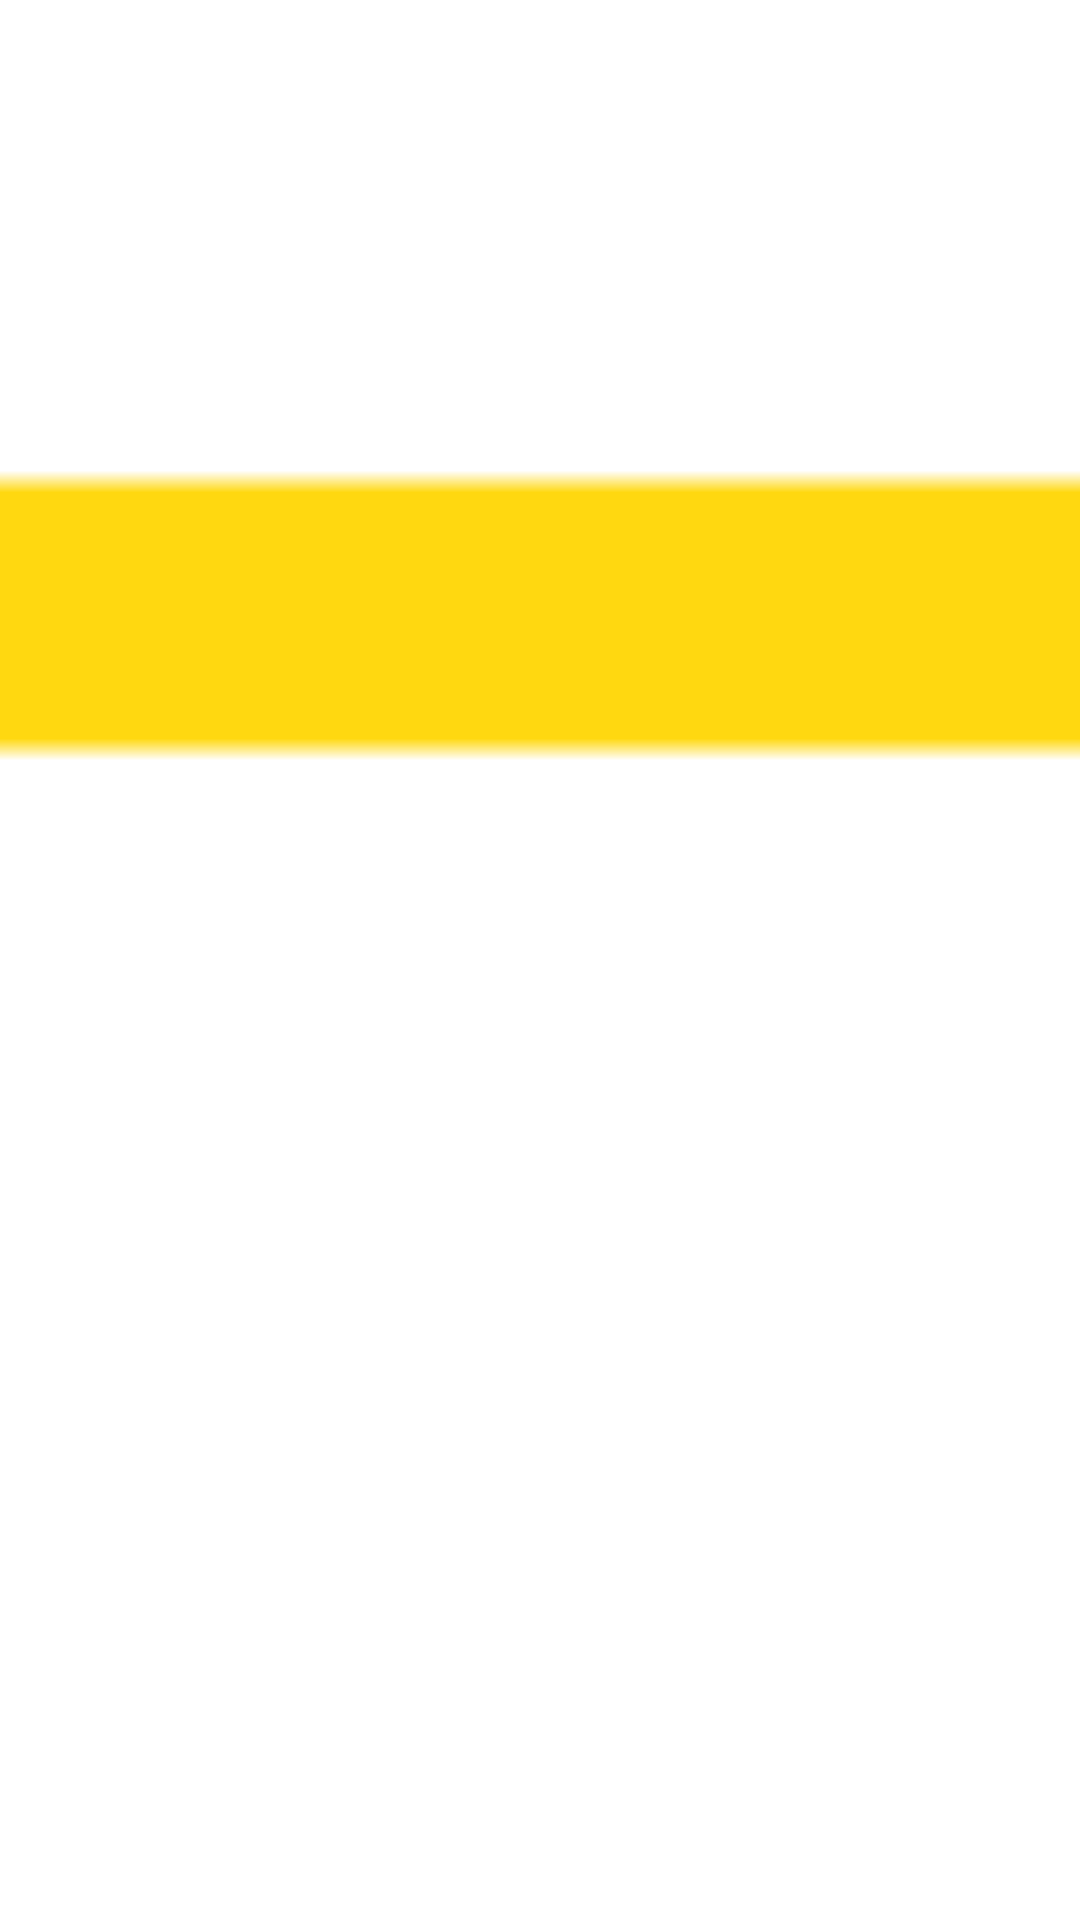
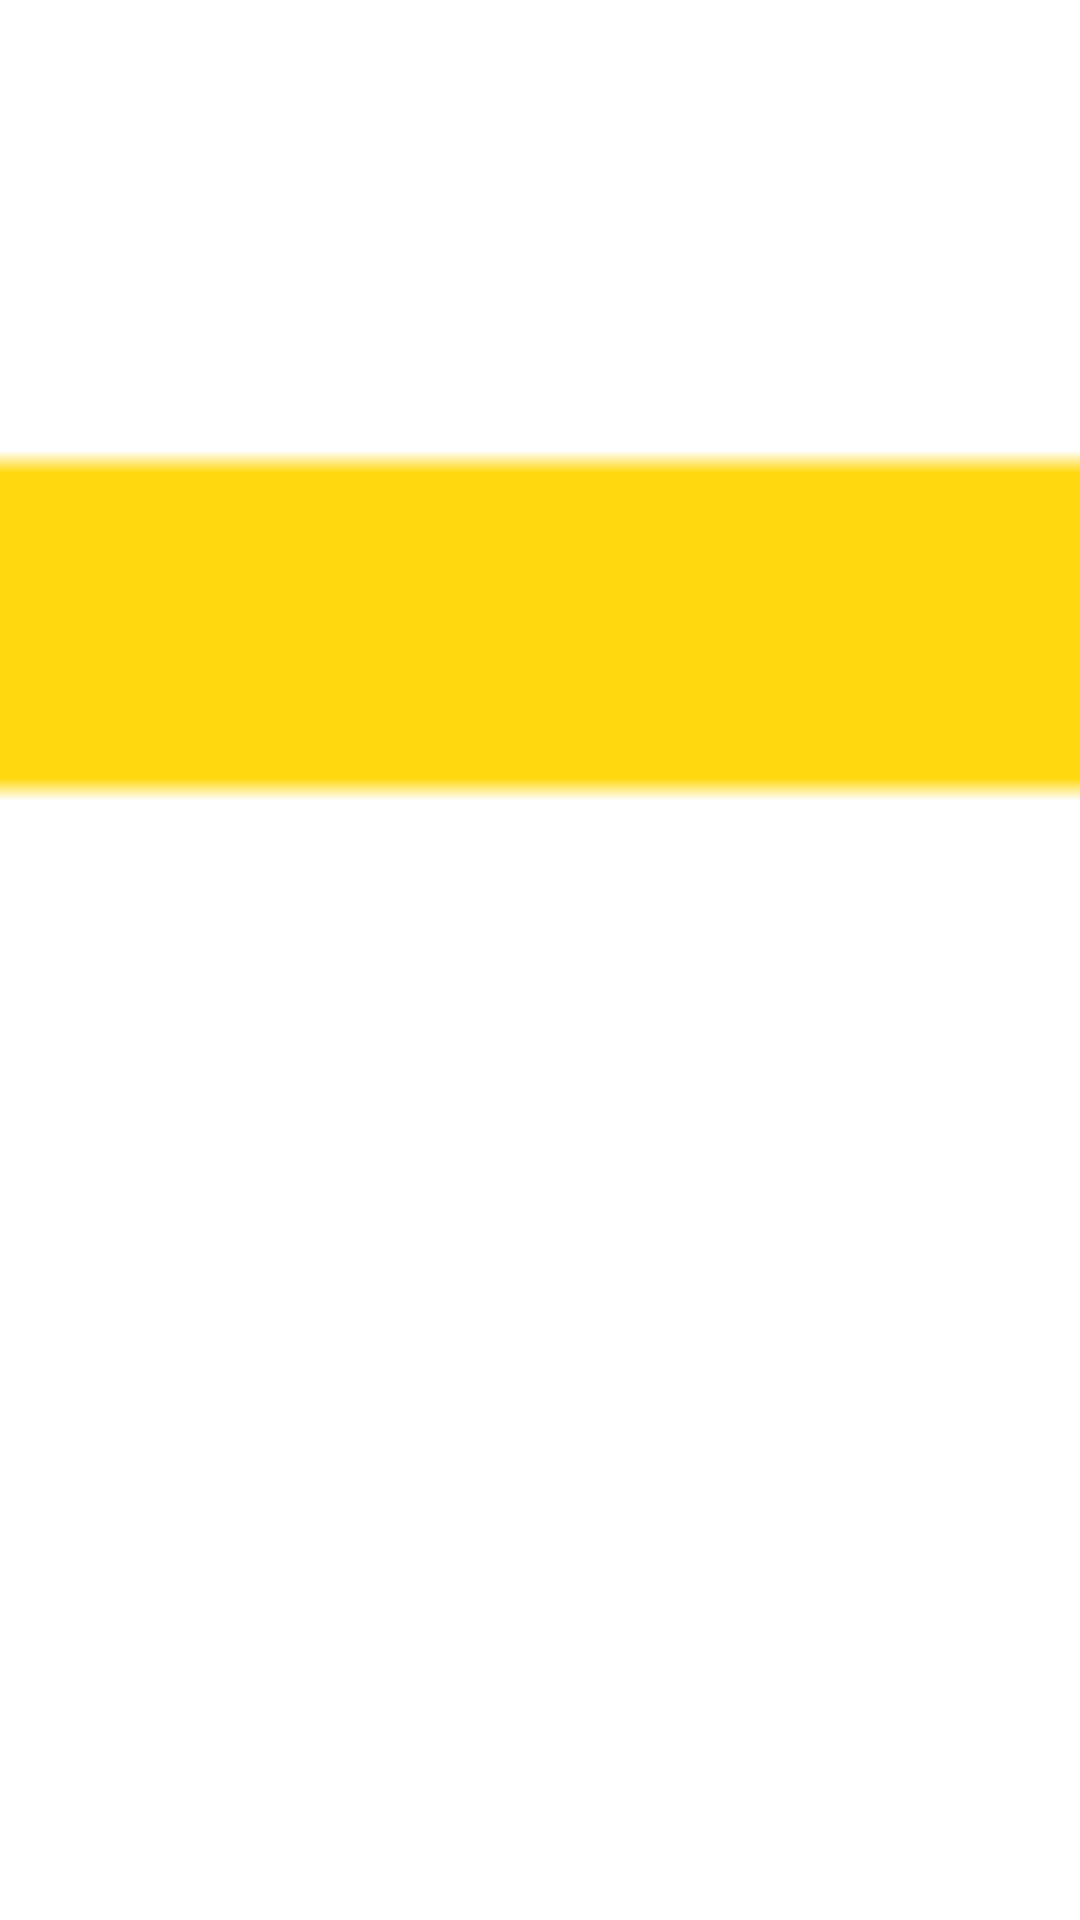
reels60 v8: 제목 전체 동일 크기(서브 별도 줄, 밴드 450~800 중앙정렬) + 배경 3클립 랜덤 조합(테마1+랜덤2, trim→concat)
Claude-Session: https://claude.ai/code/session_01CXgBneYGSEYp2fPMg731US

Changed region(s): [[0.0, 0.375, 1.0, 0.4375], [0.0, 0.2188, 1.0, 0.2812]]

diff --git a/api/reels60-cron.js b/api/reels60-cron.js
@@ -172,15 +172,18 @@ function hlWrap(text, maxLen, base, big) {
 }
 
 function buildAss(segs, titleMain, titleSub, totalDur) {
-  // 제목(노란 음영 밴드 y470~760 위, 진네이비 글씨) — 글자수 기반 자동 축소, 24자 초과 시 2줄
-  let tm = assEsc(titleMain), ts = assEsc(titleSub || '');
-  let fsMain = Math.min(104, Math.max(70, Math.floor(1900 / Math.max(1, tm.length))));
-  if (tm.length > 24) { tm = wrapAss(tm, Math.ceil(tm.length / 2) + 2); fsMain = 78; }
-  const fsSub = Math.min(54, Math.max(38, Math.floor(1500 / Math.max(1, ts.length || 1))));
+  // 제목(노란 음영 밴드 y450~800) — 메인·서브 전부 동일 크기(사용자 지시), 서브는 항상 별도 줄, 밴드 중앙 정렬
+  const mainW = wrapAss(assEsc(titleMain), 12);
+  const subW = titleSub ? wrapAss(assEsc(titleSub), 12) : '';
+  const wrapped = subW ? mainW + '\\N' + subW : mainW;
+  const tLines = wrapped.split('\\N');
+  const maxLen = Math.max(...tLines.map(l => l.replace(/\{[^}]*\}/g, '').length), 1);
+  const n = tLines.length;
+  const fs = Math.max(48, Math.min(88, Math.floor(1040 / maxLen), Math.floor(310 / (n * 1.22))));
+  const topMargin = Math.max(462, Math.round(625 - (n * fs * 1.22) / 2));
 
   let ev = '';
-  ev += `Dialogue: 2,${assTime(0)},${assTime(totalDur)},TMain,,0,0,0,,{\\fs${fsMain}}${tm}\n`;
-  if (ts) ev += `Dialogue: 2,${assTime(0)},${assTime(totalDur)},TSub,,0,0,0,,{\\fs${fsSub}}${ts}\n`;
+  ev += `Dialogue: 2,${assTime(0)},${assTime(totalDur)},TMain,,0,0,${topMargin},,{\\fs${fs}}${wrapped}\n`;
   // 하단: 예능 팝 자막 (흰 글씨+블루 테두리+그림자, 핵심어 노랑+확대)
   for (const s of segs) {
     ev += `Dialogue: 0,${assTime(s.start)},${assTime(s.end)},Sub,,0,0,0,,${hlWrap(assEsc(s.text), 12, 82, 102)}\n`;
@@ -241,9 +244,17 @@ async function buildEpisode(item) {
   const dir = fs.mkdtempSync(path.join(os.tmpdir(), 'r60-'));
   try {
     // 1) 에셋: 배경영상 + 폰트 + 카드용 이미지(로고·캐릭터)
-    const bgPath = path.join(dir, item.bg + '.mp4');
-    const bgUrl = BLOB_BGS.includes(item.bg) ? `${BLOB_ASSETS}/${item.bg}.mp4` : `${BASE}${ASSETS}/${item.bg}.mp4`;
-    await fetchTo(bgUrl, bgPath);
+    // 배경 3개 조합(사용자 지시): 테마 영상 1개 + 나머지 9개 중 랜덤 2개를 이어붙임
+    const ALL_BGS = ['V1', 'V2', 'V3', 'V4', 'V5', 'V6', 'V7', 'V8', 'V9', 'V10'];
+    const others = ALL_BGS.filter(v => v !== item.bg);
+    for (let i = others.length - 1; i > 0; i--) { const j = Math.floor(Math.random() * (i + 1)); [others[i], others[j]] = [others[j], others[i]]; }
+    const bgs = [item.bg, others[0], others[1]];
+    const bgPaths = [];
+    for (const v of bgs) {
+      const p = path.join(dir, v + '.mp4');
+      const u = BLOB_BGS.includes(v) ? `${BLOB_ASSETS}/${v}.mp4` : `${BASE}${ASSETS}/${v}.mp4`;
+      await fetchTo(u, p); bgPaths.push(p);
+    }
     const fontsDir = path.join(dir, 'fonts'); fs.mkdirSync(fontsDir);
     const fBold = path.join(fontsDir, 'Pretendard-Bold.otf');
     const fReg = path.join(fontsDir, 'Pretendard-Regular.otf');
@@ -290,25 +301,35 @@ async function buildEpisode(item) {
     const assPath = path.join(dir, 'subs.ass');
     fs.writeFileSync(assPath, buildAss(segs, titleMain, titleSub, total));
 
-    // 5) 합성: 배경 루프 + 상단 음영 밴드 (+최상단 배너) + 자막 → 아웃트로 카드 → 음성
+    // 5) 합성: 배경 3클립 순차 연결(각각 루프→트림) + 밴드 (+배너) + 자막 → 아웃트로 카드 → 음성
     const out = path.join(dir, 'out.mp4');
-    const inputs = ['-stream_loop', '-1', '-i', bgPath, '-i', narrPath,
-      '-loop', '1', '-i', outroPath,
-      '-loop', '1', '-i', bandPath];
-    let chain = `[0:v]scale=1080:1920:flags=lanczos,fps=30[bg];` +
-      `[bg][3:v]overlay=0:0[bb];`;
+    const seg = Math.max(3, total / 3);
+    const segLast = Math.max(3, total - 2 * seg + 1.0); // 마지막은 여유(-t로 컷)
+    const inputs = [
+      '-stream_loop', '-1', '-i', bgPaths[0],
+      '-stream_loop', '-1', '-i', bgPaths[1],
+      '-stream_loop', '-1', '-i', bgPaths[2],
+      '-i', narrPath,                       // 3: 음성
+      '-loop', '1', '-i', outroPath,        // 4: 아웃트로
+      '-loop', '1', '-i', bandPath];        // 5: 노란 밴드
+    let chain =
+      `[0:v]trim=duration=${seg.toFixed(2)},setpts=PTS-STARTPTS,scale=1080:1920:flags=lanczos[c0];` +
+      `[1:v]trim=duration=${seg.toFixed(2)},setpts=PTS-STARTPTS,scale=1080:1920:flags=lanczos[c1];` +
+      `[2:v]trim=duration=${segLast.toFixed(2)},setpts=PTS-STARTPTS,scale=1080:1920:flags=lanczos[c2];` +
+      `[c0][c1][c2]concat=n=3:v=1:a=0,fps=30[bg];` +
+      `[bg][5:v]overlay=0:0[bb];`;
     let last = 'bb';
     if (bannerPath) {
       // 배너(투명 PNG)는 화면 최상단 중앙 — 그 아래 노란 음영 제목, 그 아래 자막 순서
       inputs.push('-loop', '1', '-i', bannerPath);
-      chain += `[4:v]scale=920:-1[bn];[${last}][bn]overlay=(main_w-overlay_w)/2:20[bw];`;
+      chain += `[6:v]scale=920:-1[bn];[${last}][bn]overlay=(main_w-overlay_w)/2:20[bw];`;
       last = 'bw';
     }
     chain += `[${last}]subtitles=${assPath}:fontsdir=${fontsDir}[sv];` +
-      `[sv][2:v]overlay=0:0:enable='gte(t,${outroStart.toFixed(2)})'[v2];` +
+      `[sv][4:v]overlay=0:0:enable='gte(t,${outroStart.toFixed(2)})'[v2];` +
       `[v2]format=yuv420p[vout]`;
     execFileSync(FF, ['-y', ...inputs,
-      '-filter_complex', chain, '-map', '[vout]', '-map', '1:a', '-af', 'apad',
+      '-filter_complex', chain, '-map', '[vout]', '-map', '3:a', '-af', 'apad',
       '-c:v', 'libx264', '-profile:v', 'high', '-preset', 'veryfast', '-r', '30', '-pix_fmt', 'yuv420p',
       '-c:a', 'aac', '-b:a', '128k', '-t', total.toFixed(2),
       '-movflags', '+faststart', out], { stdio: 'ignore' });
@@ -320,7 +341,8 @@ async function buildEpisode(item) {
     const durDiff = Math.abs(outDur - total);
     qa.push(['길이 일치(음성+아웃트로 ±0.5s)', durDiff <= 0.5, `영상 ${outDur.toFixed(2)}s / 음성 ${narrDur.toFixed(2)}s+${OUTRO_TAIL}s / 차이 ${durDiff.toFixed(2)}s`]);
     qa.push(['아웃트로 카드', outroBuf.length > 5000, `${(outroBuf.length / 1024) | 0}KB`]);
-    qa.push(['중앙 배너', true, bannerPath ? '적용' : '없음(Blob 캐시 전)']);
+    qa.push(['상단 배너', true, bannerPath ? '적용' : '없음(Blob 캐시 전)']);
+    qa.push(['배경 3클립 조합', bgs.length === 3 && new Set(bgs).size === 3, bgs.join('→')]);
     qa.push(['해상도 1080×1920', /1080x1920/.test(info), '']);
     qa.push(['오디오 스트림', /Audio:\s*aac/.test(info), '']);
     const marker = item.season === 1 ? `[건보 면접 30일 릴스 ${item.code}]` : `[건보 면접 D-30 스프린트 ${item.code}]`;
@@ -331,7 +353,7 @@ async function buildEpisode(item) {
     const failed = qa.filter(q => !q[1]);
     if (failed.length) throw new Error('QA 실패: ' + failed.map(f => f[0] + (f[2] ? `(${f[2]})` : '')).join(', '));
 
-    return { mp4: fs.readFileSync(out), outDur, narrDur, segCount: segs.length, ttsMode: mode, qa };
+    return { mp4: fs.readFileSync(out), outDur, narrDur, segCount: segs.length, ttsMode: mode, qa, bgs };
   } finally {
     try { fs.rmSync(dir, { recursive: true, force: true }); } catch (e) {}
   }
@@ -401,7 +423,7 @@ module.exports = async (req, res) => {
 
     if (dryrun) {
       if (q.json === '1') {
-        return out(200, { ok: true, dryrun: true, idx: idx + 1, code: item.code, title: item.title, bg: item.bg,
+        return out(200, { ok: true, dryrun: true, idx: idx + 1, code: item.code, title: item.title, bgs: ep.bgs,
           videoUrl: blob.url, durationSec: ep.outDur, narrDur: ep.narrDur, segCount: ep.segCount,
           ttsMode: ep.ttsMode, buildSec, qa: ep.qa.map(x => ({ name: x[0], pass: x[1], note: x[2] })) });
       }